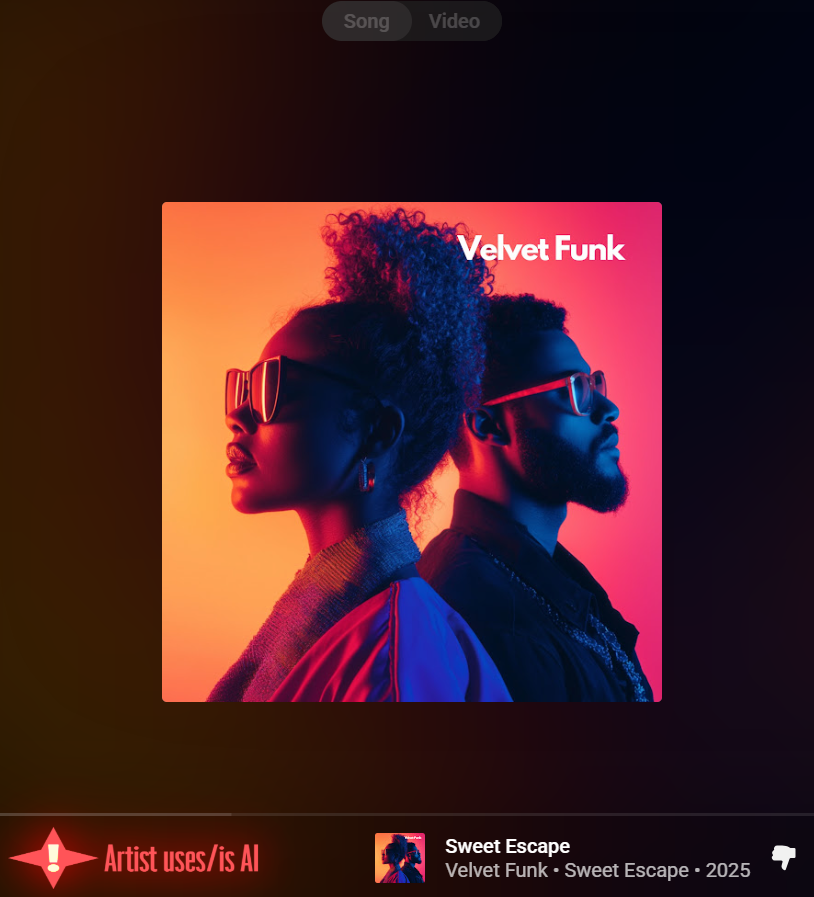
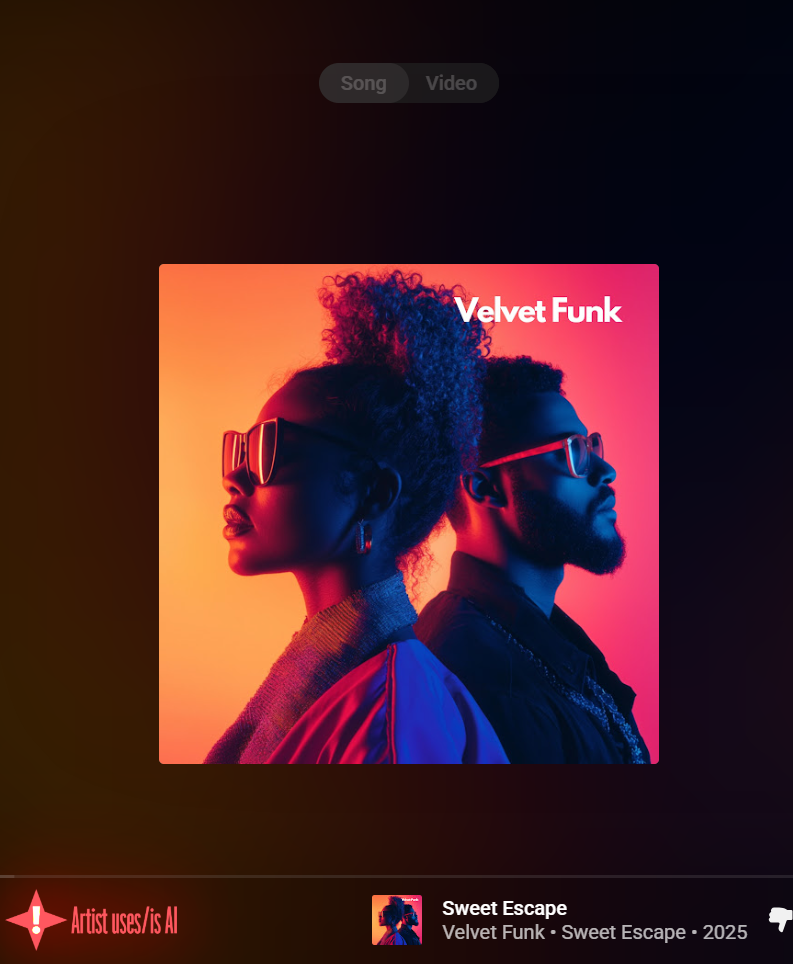
Bad scaling

diff --git a/content.js b/content.js
@@ -69,7 +69,7 @@ const badge = document.createElement('img');
 badge.className = 'ai-warning-badge';
 badge.src = chrome.runtime.getURL('ArtistUsesAI.png')
 
-badge.style.width = '200px';
+badge.style.width = '175px';
 badge.style.height = '50px';
 badge.style.display = 'block';
 badge.style.margin = '0 auto';
